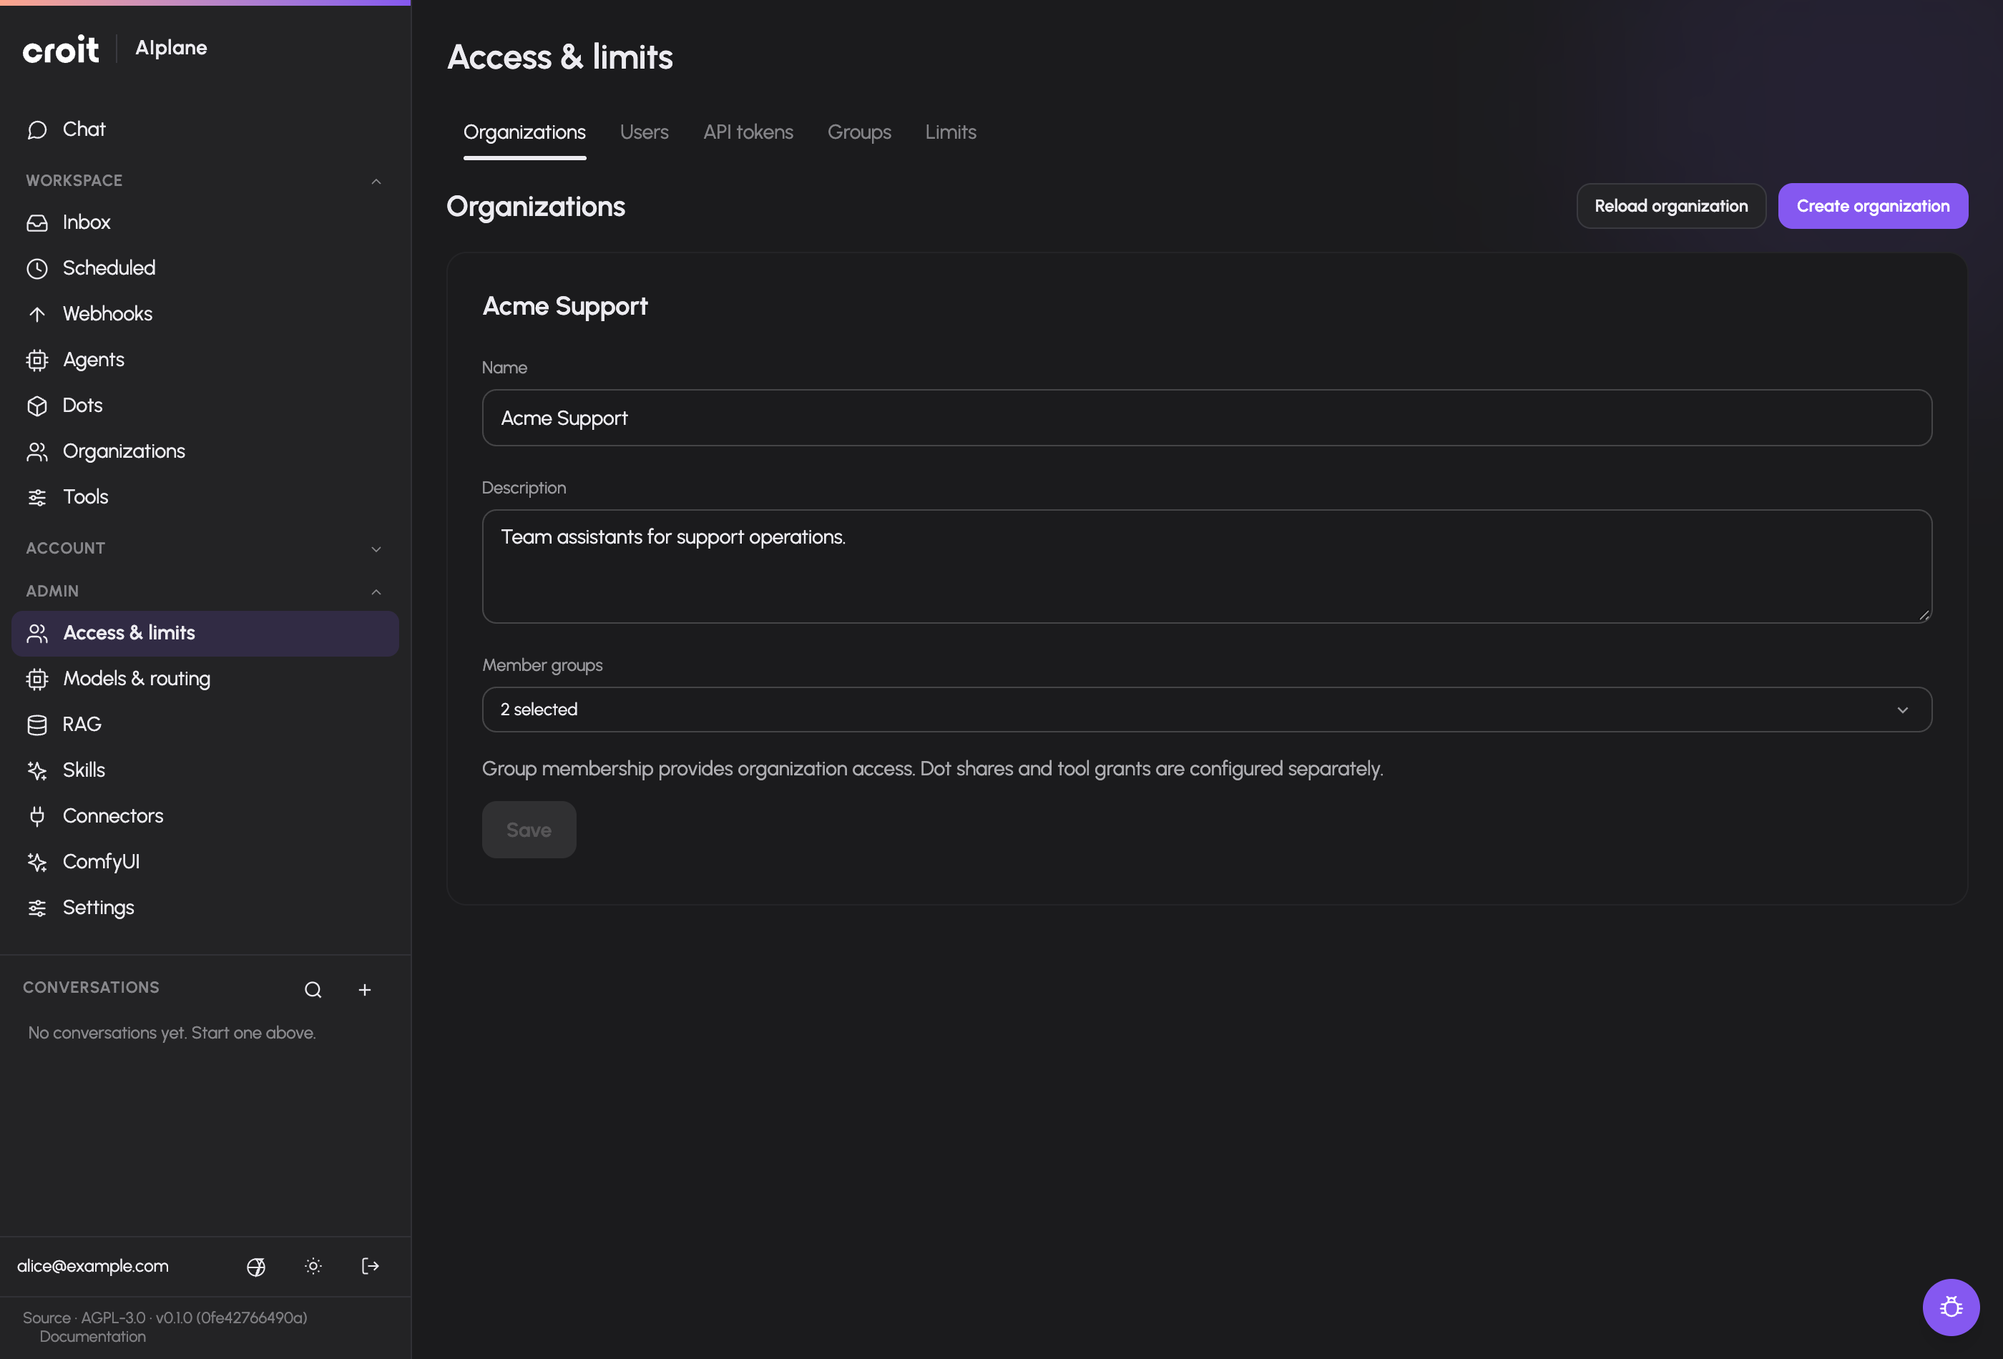
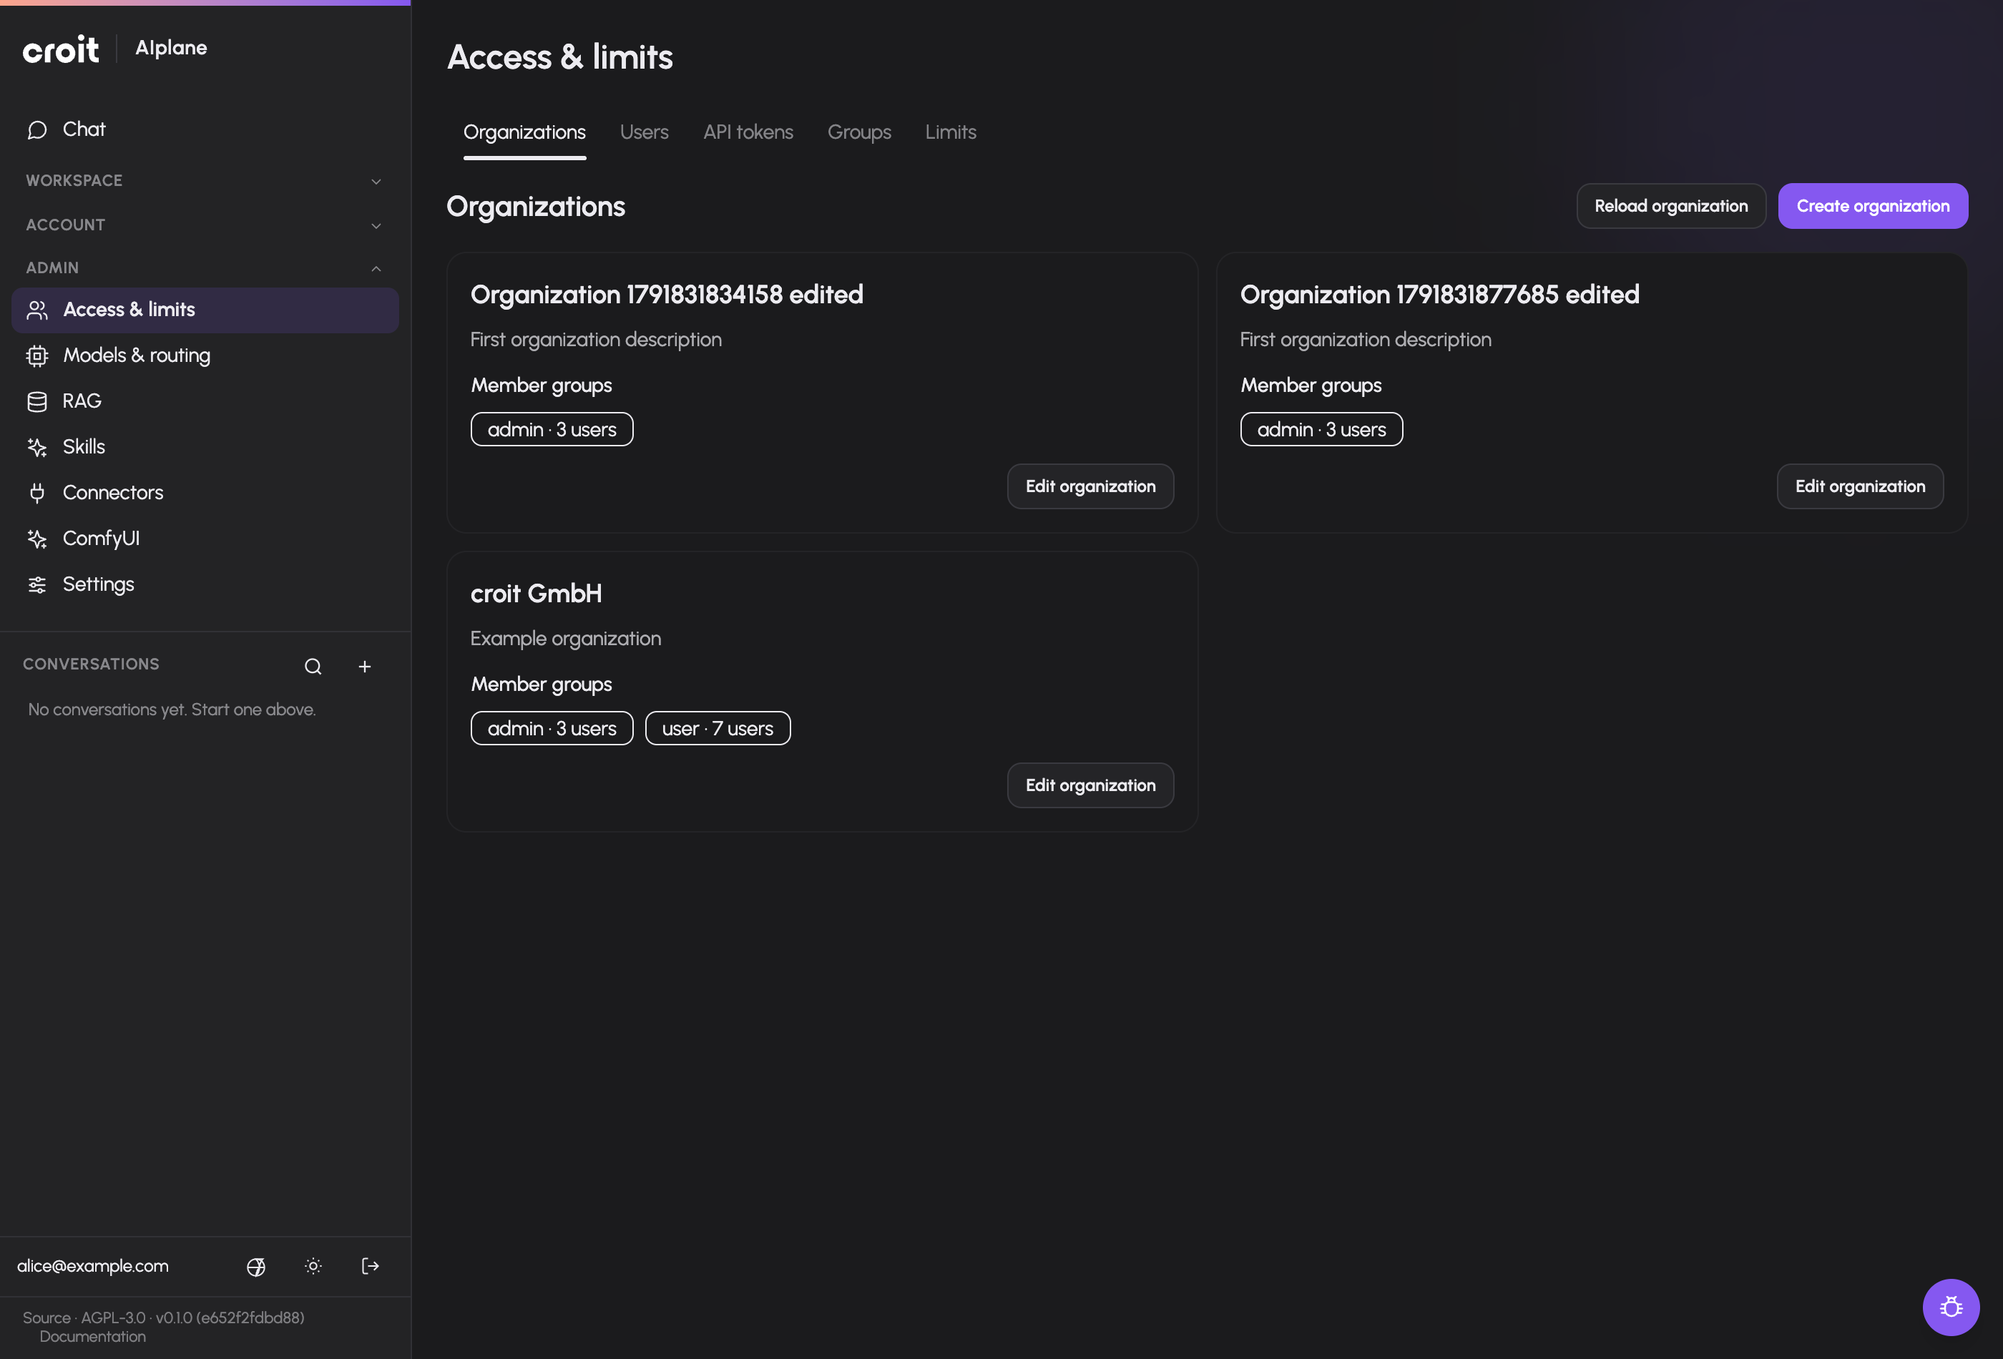
Show organization member counts by group

diff --git a/web/src/routes/admin/(access)/organizations/+page.svelte b/web/src/routes/admin/(access)/organizations/+page.svelte
@@ -5,7 +5,7 @@
     import { adminOrganizationsApi, type AdminOrganization, type OrganizationBody, type OrganizationEdit } from '#lib/organizations.js';
     import { ApiError } from '#lib/api.js';
     import { t } from '#lib/i18n.svelte.js';
-    let data = $state<{ organizations: AdminOrganization[]; groups: string[] } | null>(null);
+    let data = $state<{ organizations: AdminOrganization[]; groups: string[]; member_group_user_counts: Record<string, number> } | null>(null);
     let error = $state<string | null>(null);
     let saved = $state(false);
     let creating = $state(false);
@@ -40,7 +40,7 @@
                             <div class="space-y-2">
                                 <h4 class="text-sm font-medium">{t('organization-member-groups')}</h4>
                                 {#if row.member_groups.length}
-                                    <div class="flex flex-wrap gap-2">{#each row.member_groups as group (group)}<span class="badge badge-outline">{group}</span>{/each}</div>
+                                    <div class="flex flex-wrap gap-2">{#each row.member_groups as group (group)}<span class="badge badge-outline">{t('organization-member-group-count', { group, count: data.member_group_user_counts[group] ?? 0 })}</span>{/each}</div>
                                 {:else}<p class="text-sm text-base-content/60">{t('organization-no-members')}</p>{/if}
                             </div>
                             <div class="card-actions justify-end">

diff --git a/web/src/lib/locales/ru.ts b/web/src/lib/locales/ru.ts
@@ -2006,6 +2006,12 @@ export const ru: Catalog = {
  "organization-error-name-conflict": "В этой организации уже есть Dot с таким именем. Выберите другое имя.",
  "organization-error-not-found": "Эта организация недоступна. Проверьте адрес или попросите администратора проверить ваш доступ.",
  "organization-error-permission-required": "Нужны членство в организации и право управления агентами. Попросите администратора проверить ваши группы.",
+ "organization-member-group-count": {
+  "few": "{group} · {count} пользователя",
+  "many": "{group} · {count} пользователей",
+  "one": "{group} · {count} пользователь",
+  "other": "{group} · {count} пользователей"
+ },
  "organization-member-groups": "Группы участников",
  "organization-membership-explanation": "Членство в группе даёт доступ к организации. Доступ к Dot и разрешения на инструменты настраиваются отдельно.",
  "organization-no-members": "Для этой организации не настроены группы участников.",

diff --git a/web/src/lib/locales/fr.ts b/web/src/lib/locales/fr.ts
@@ -1990,6 +1990,10 @@ export const fr: Catalog = {
  "organization-error-name-conflict": "Cette organisation possède déjà un Dot portant ce nom. Choisissez un autre nom.",
  "organization-error-not-found": "Cette organisation est indisponible. Vérifiez son adresse ou demandez à un administrateur de vérifier votre accès.",
  "organization-error-permission-required": "Vous devez être membre de l’organisation et disposer du droit de gestion des agents. Demandez à un administrateur de vérifier vos groupes.",
+ "organization-member-group-count": {
+  "one": "{group} · {count} utilisateur",
+  "other": "{group} · {count} utilisateurs"
+ },
  "organization-member-groups": "Groupes membres",
  "organization-membership-explanation": "L’appartenance à un groupe donne accès à l’organisation. Les partages des Dots et les autorisations des outils se configurent séparément.",
  "organization-no-members": "Aucun groupe membre n’est configuré pour cette organisation.",

diff --git a/web/src/lib/locales/de.ts b/web/src/lib/locales/de.ts
@@ -1990,6 +1990,10 @@ export const de: Catalog = {
  "organization-error-name-conflict": "Diese Organisation hat bereits einen Dot mit diesem Namen. Wähle einen anderen Namen.",
  "organization-error-not-found": "Diese Organisation ist nicht verfügbar. Prüfe die Adresse oder frage einen Administrator nach deinem Zugriff.",
  "organization-error-permission-required": "Du benötigst die Organisationsmitgliedschaft und die Berechtigung zur Agentenverwaltung. Bitte einen Administrator, deine Gruppen zu prüfen.",
+ "organization-member-group-count": {
+  "one": "{group} · {count} Nutzer",
+  "other": "{group} · {count} Nutzer"
+ },
  "organization-member-groups": "Mitgliedergruppen",
  "organization-membership-explanation": "Gruppenmitgliedschaft ermöglicht den Zugriff auf die Organisation. Dot-Freigaben und Werkzeugberechtigungen werden separat eingerichtet.",
  "organization-no-members": "Für diese Organisation sind keine Mitgliedergruppen eingerichtet.",

diff --git a/web/src/lib/locales/es.ts b/web/src/lib/locales/es.ts
@@ -1990,6 +1990,10 @@ export const es: Catalog = {
  "organization-error-name-conflict": "Esta organización ya tiene un Dot con ese nombre. Elige otro nombre.",
  "organization-error-not-found": "Esta organización no está disponible. Comprueba su dirección o pide a un administrador que revise tu acceso.",
  "organization-error-permission-required": "Necesitas ser miembro de la organización y tener permiso para gestionar agentes. Pide a un administrador que revise tus grupos.",
+ "organization-member-group-count": {
+  "one": "{group} · {count} usuario",
+  "other": "{group} · {count} usuarios"
+ },
  "organization-member-groups": "Grupos de miembros",
  "organization-membership-explanation": "La pertenencia a un grupo da acceso a la organización. Los accesos compartidos a los Dots y los permisos de herramientas se configuran por separado.",
  "organization-no-members": "No hay grupos de miembros configurados para esta organización.",

diff --git a/web/src/lib/organizations.ts b/web/src/lib/organizations.ts
@@ -20,7 +20,7 @@ export function organizationChange(row: AdminOrganization, draft: OrganizationBo
 const json = (method: string, body: unknown): RequestInit => ({ method, body: JSON.stringify(body) });
 const path = (id: string) => `/api/v0/organizations/${encodeURIComponent(id)}`;
 export const adminOrganizationsApi = {
-    list: () => request<{ organizations: AdminOrganization[]; groups: string[] }>('/api/v0/admin/organizations'),
+    list: () => request<{ organizations: AdminOrganization[]; groups: string[]; member_group_user_counts: Record<string, number> }>('/api/v0/admin/organizations'),
     create: (body: OrganizationBody) => request<{ organization: AdminOrganization }>('/api/v0/admin/organizations', json('POST', body)),
     save: (id: string, body: OrganizationEdit) => request<{ organization: AdminOrganization }>(`/api/v0/admin/organizations/${encodeURIComponent(id)}`, json('PUT', body))
 };

diff --git a/web/src/lib/locales/en.ts b/web/src/lib/locales/en.ts
@@ -1990,6 +1990,10 @@ export const en: Catalog = {
  "organization-error-name-conflict": "This organization already has a Dot with that name. Choose a different name.",
  "organization-error-not-found": "This organization is unavailable. Check its address or ask an administrator about your access.",
  "organization-error-permission-required": "You need organization membership and agent management permission. Ask an administrator to review your groups.",
+ "organization-member-group-count": {
+  "one": "{group} · {count} user",
+  "other": "{group} · {count} users"
+ },
  "organization-member-groups": "Member groups",
  "organization-membership-explanation": "Group membership provides organization access. Dot shares and tool grants are configured separately.",
  "organization-no-members": "No member groups are configured for this organization.",

diff --git a/web/src/lib/locales/zh.ts b/web/src/lib/locales/zh.ts
@@ -1975,6 +1975,10 @@ export const zh: Catalog = {
  "organization-error-name-conflict": "此组织已有同名 Dot。请选择其他名称。",
  "organization-error-not-found": "此组织不可用。请检查地址，或请管理员检查你的访问权限。",
  "organization-error-permission-required": "你需要是组织成员并拥有代理管理权限。请管理员检查你的所属组。",
+ "organization-member-group-count": {
+  "one": "{group} · {count} 位用户",
+  "other": "{group} · {count} 位用户"
+ },
  "organization-member-groups": "成员组",
  "organization-membership-explanation": "组成员身份提供组织访问权限。Dot 共享权限和工具授权需要单独配置。",
  "organization-no-members": "此组织尚未配置成员组。",

diff --git a/crates/aiplane-core/src/server/db/gateway_groups.rs b/crates/aiplane-core/src/server/db/gateway_groups.rs
@@ -14,6 +14,8 @@
 //! `/admin/groups` UI owns it. The resolver holds a snapshot ([`load_snapshot`])
 //! that is rebuilt from these tables at startup and after every admin edit.
 
+use std::collections::BTreeMap;
+
 use jiff::Timestamp;
 use sqlx::Row;
 
@@ -408,6 +410,46 @@ pub async fn observed_oidc_values(pool: &Pool) -> Result<Vec<String>, DbError> {
     Ok(out)
 }
 
+/// Count locally known users that resolve to each requested group. Membership
+/// follows the same stored claim mappings and default-group rule as RBAC.
+pub async fn group_member_counts_in(
+    tx: &mut WriteTx,
+    groups: &[String],
+) -> Result<BTreeMap<String, u64>, DbError> {
+    if groups.is_empty() {
+        return Ok(BTreeMap::new());
+    }
+    let groups = serde_json::to_string(groups).expect("string vector serializes");
+    let rows = sqlx::query(
+        r#"SELECT requested.value AS group_name, COUNT(DISTINCT u.id) AS user_count
+           FROM json_each(?) AS requested
+           LEFT JOIN gateway_groups AS g ON g.name = requested.value
+           LEFT JOIN users AS u ON g.is_default = 1 OR EXISTS (
+               SELECT 1
+               FROM oidc_group_mappings AS mapping
+               JOIN json_each(u.roles_json) AS role_value
+                 ON role_value.value = mapping.oidc_value
+               WHERE mapping.gateway_group = g.name
+           )
+           GROUP BY requested.value"#,
+    )
+    .bind(groups)
+    .fetch_all(&mut **tx)
+    .await?;
+
+    rows.iter()
+        .map(|row| {
+            let group: String = row.try_get("group_name")?;
+            let count: i64 = row.try_get("user_count")?;
+            let count = u64::try_from(count).map_err(|source| DbError::Decode {
+                column: "user_count",
+                source: source.into(),
+            })?;
+            Ok((group, count))
+        })
+        .collect()
+}
+
 /// True when no group has been created yet — the trigger for a one-time
 /// [`seed_roles`].
 pub async fn is_empty(pool: &Pool) -> Result<bool, DbError> {
@@ -549,6 +591,56 @@ mod tests {
         assert!(groups[0].is_admin);
         assert_eq!(groups[1].name, "developers");
         assert_eq!(groups[1].description, "Dev team");
+    }
+
+    #[tokio::test]
+    async fn member_counts_include_mapped_users_once_and_every_user_in_default_groups() {
+        let pool = fresh().await;
+        upsert_group(&pool, "admins", "", true, false)
+            .await
+            .unwrap();
+        upsert_group(&pool, "everyone", "", false, true)
+            .await
+            .unwrap();
+        upsert_group(&pool, "support", "", false, false)
+            .await
+            .unwrap();
+        set_mappings_for_group(&pool, "admins", &v(&["admin-a", "admin-b"]))
+            .await
+            .unwrap();
+        set_mappings_for_group(&pool, "support", &v(&["support-team"]))
+            .await
+            .unwrap();
+        for (id, roles) in [
+            ("one", r#"["admin-a","admin-b","support-team"]"#),
+            ("two", r#"["admin-a"]"#),
+            ("three", r#"["unmapped"]"#),
+        ] {
+            sqlx::query("INSERT INTO users(id,email,roles_json,created_at,updated_at) VALUES(?,?,?,'2026-01-01T00:00:00Z','2026-01-01T00:00:00Z')")
+                .bind(id)
+                .bind(format!("{id}@example.test"))
+                .bind(roles)
+                .execute(&pool)
+                .await
+                .unwrap();
+        }
+
+        let mut tx = super::super::WriteTx::begin(&pool).await.unwrap();
+        let counts =
+            group_member_counts_in(&mut tx, &v(&["admins", "everyone", "support", "missing"]))
+                .await
+                .unwrap();
+
+        assert_eq!(
+            counts["admins"], 2,
+            "one user matching two claims counts once"
+        );
+        assert_eq!(
+            counts["everyone"], 3,
+            "default groups include all known users"
+        );
+        assert_eq!(counts["support"], 1);
+        assert_eq!(counts["missing"], 0);
     }
 
     #[tokio::test]

diff --git a/crates/aiplane-api/src/pages/json_organizations.rs b/crates/aiplane-api/src/pages/json_organizations.rs
@@ -1,7 +1,10 @@
 // SPDX-License-Identifier: AGPL-3.0-only
 // Copyright (C) 2026 croit GmbH
 
-use std::sync::Arc;
+use std::{
+    collections::{BTreeMap, BTreeSet},
+    sync::Arc,
+};
 
 use aiplane_agents::db::{agents, organizations, system_principals::NewPrincipal};
 use aiplane_core::server::db::{WriteTx, gateway_groups, users};
@@ -54,6 +57,7 @@ impl From<&organizations::AdminOrganizationRow> for AdminOrganizationView {
 pub struct AdminOrganizationList {
     pub organizations: Vec<AdminOrganizationView>,
     pub groups: Vec<String>,
+    pub member_group_user_counts: BTreeMap<String, u64>,
 }
 
 #[derive(Serialize, schemars::JsonSchema)]
@@ -233,6 +237,16 @@ pub async fn admin_list(State(state): State<Arc<RamaState>>, req: Request) -> Re
             .iter()
             .map(AdminOrganizationView::from)
             .collect::<Vec<_>>();
+        let member_groups = organizations
+            .iter()
+            .flat_map(|organization| organization.member_groups.iter().cloned())
+            .collect::<BTreeSet<_>>()
+            .into_iter()
+            .collect::<Vec<_>>();
+        let member_group_user_counts =
+            gateway_groups::group_member_counts_in(&mut tx, &member_groups)
+                .await
+                .map_err(internal)?;
         let groups = gateway_groups::list_group_names_in(&mut tx)
             .await
             .map_err(internal)?;
@@ -242,6 +256,7 @@ pub async fn admin_list(State(state): State<Arc<RamaState>>, req: Request) -> Re
             AdminOrganizationList {
                 organizations,
                 groups,
+                member_group_user_counts,
             },
         ))
     }

diff --git a/docs/admin/access.md b/docs/admin/access.md
@@ -43,9 +43,13 @@ Organization metadata is administered through
 `/api/v0/admin/organizations`, or use **Access & limits → Organizations**
 (`/admin/organizations`). Select actual gateway groups as membership
 sources. Existing OIDC mappings continue to resolve those groups; the
-organization does not introduce a second identity roster. Empty bindings
-provide no membership. Deleting a bound gateway group removes that binding;
-recreating a group with the same name does not restore it.
+organization does not introduce a second identity roster. Each member-group
+badge shows the number of locally known users currently resolved into that
+group. Counts use users' latest stored OIDC claims; a default group includes
+every locally known user. These counts reflect people who have signed in to
+AIplane and are not a live query to the IdP directory. Empty bindings provide
+no membership. Deleting a bound gateway group removes that binding; recreating
+a group with the same name does not restore it.
 
 Choose **Create organization** to open its metadata dialog. Existing cards
 edit the organization's actual name, description and selected member groups.

diff --git a/docs/ui.md b/docs/ui.md
@@ -182,7 +182,10 @@ gateway groups. Metadata saves send the returned revision. A conflict preserves
 the local draft until an explicit reload. Empty group bindings grant no member
 access, and removing a bound group changes the organization revision. The
 list uses compact cards with the current description and configured member
-groups. Creation and editing both use the shared Modal and group selector.
+groups, each with the number of locally known users assigned to that group.
+The count uses each user's most recently stored OIDC claim values; default
+groups count every locally known user. Creation and editing both use the shared
+Modal and group selector.
 Saving closes the edit dialog after the returned revision is accepted; a
 conflict keeps the draft open until the administrator reloads or corrects it.
 
